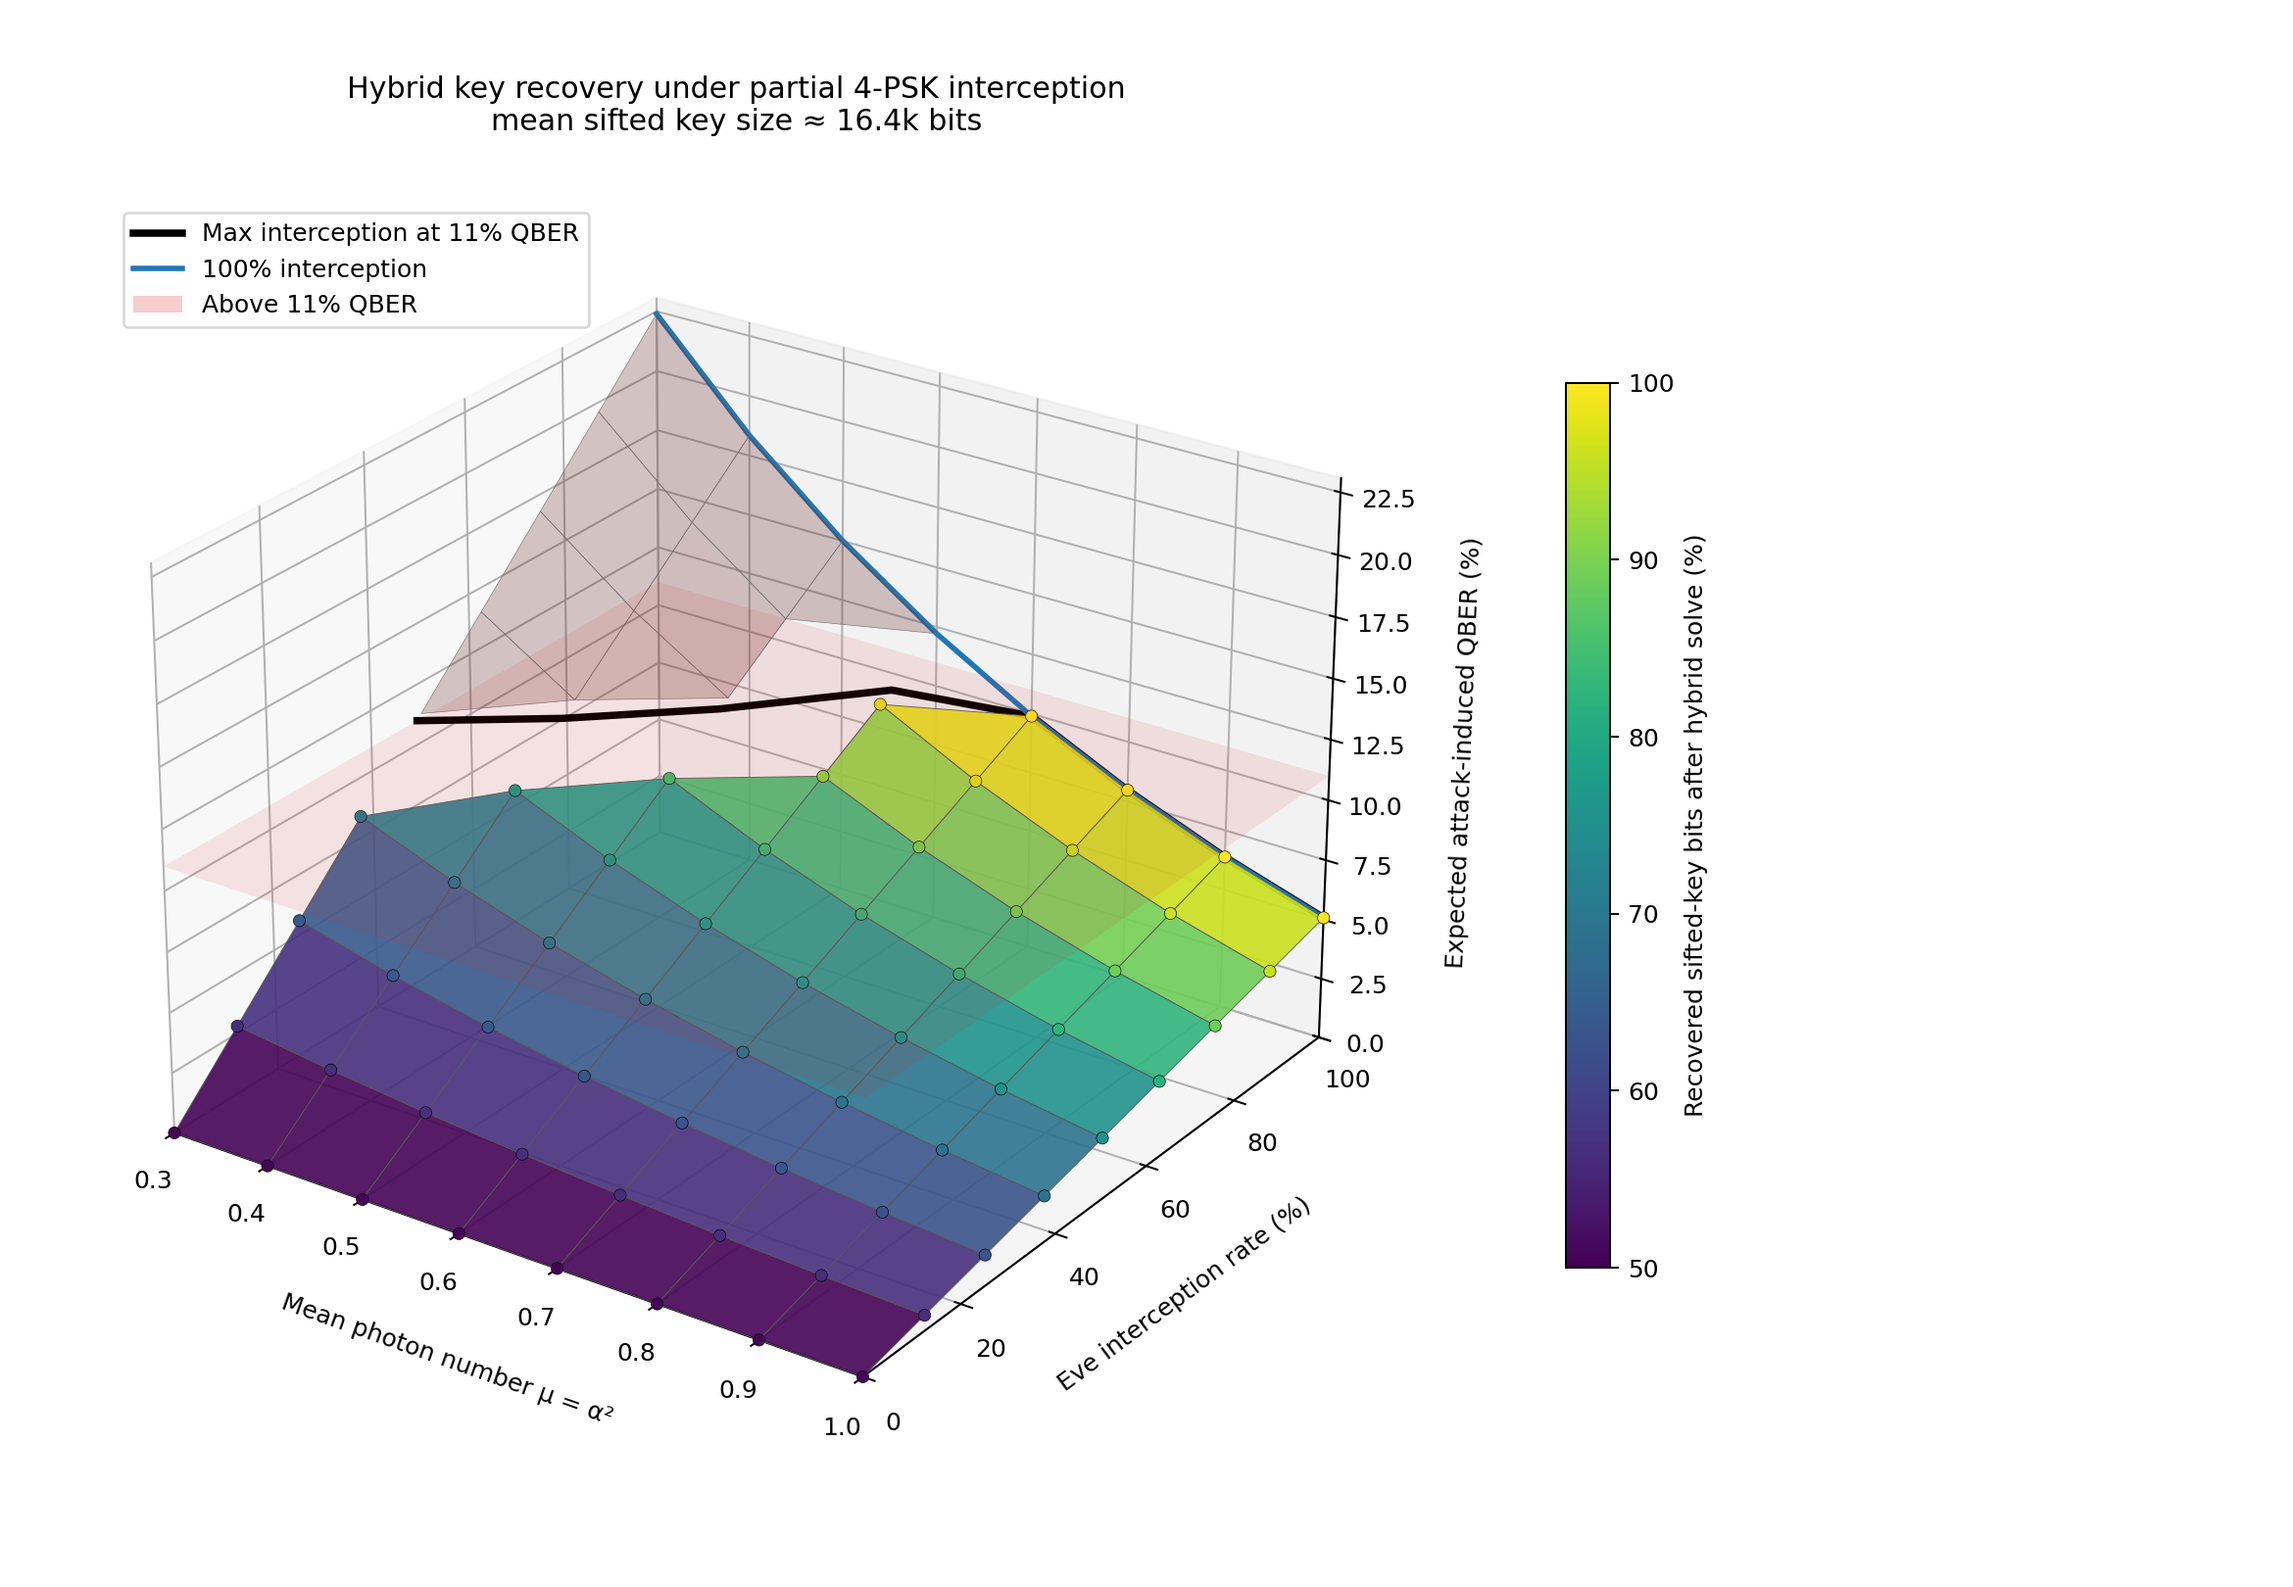
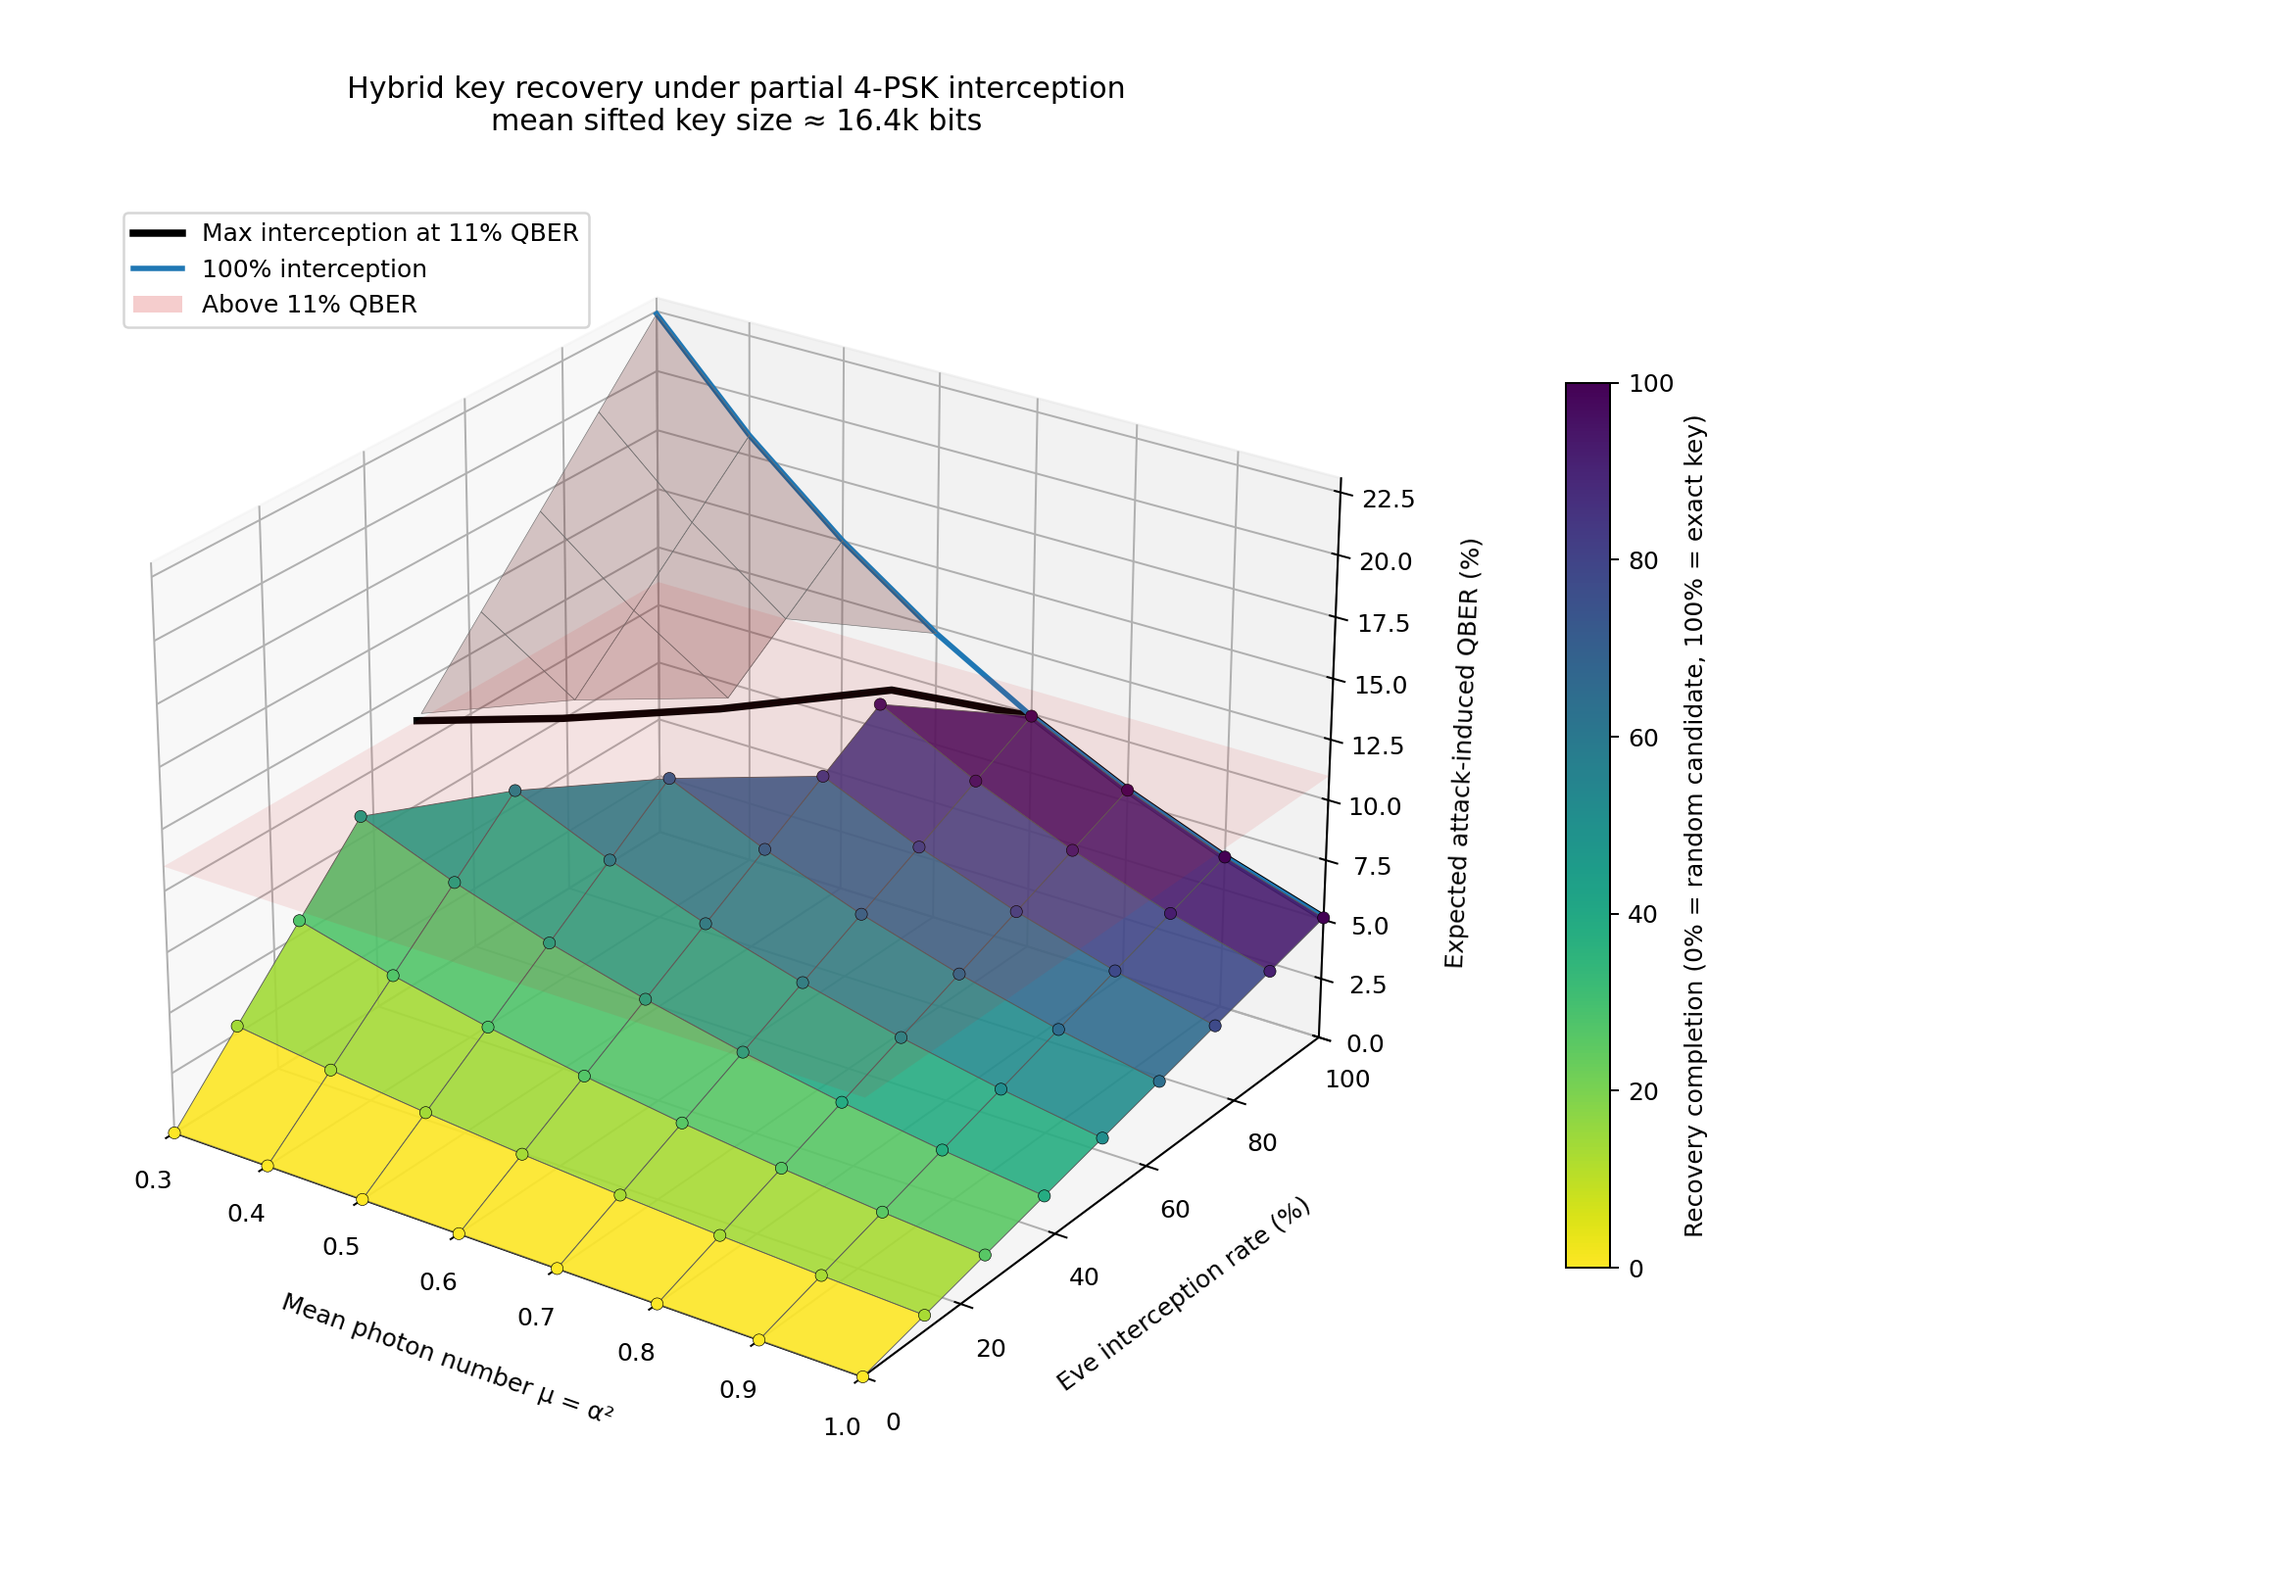
Normalize recovery colors above chance

Changed region(s): [[0.0624, 0.4938, 0.4991, 0.8642], [0.2808, 0.4321, 0.5927, 0.679], [0.6863, 0.2469, 0.7487, 0.8025]]

diff --git a/plot_3d_mean_photon.py b/plot_3d_mean_photon.py
@@ -53,6 +53,25 @@ def maximum_intercept_fraction(
     return min(1.0, qber_limit / full_qber)
 
 
+def recovery_completion(
+    recovery_accuracy: float, intercept_fraction: float
+) -> float:
+    """Normalize candidate accuracy from random guessing to exact recovery.
+
+    A candidate with 50% bit accuracy contains no demonstrated recovery beyond
+    chance and maps to 0%. An exact candidate maps to 100%. At zero
+    interception the completion is exactly zero, independent of finite-sample
+    fluctuations around 50% candidate accuracy.
+    """
+    if not 0.0 <= recovery_accuracy <= 1.0:
+        raise ValueError("recovery_accuracy must be between 0 and 1")
+    if not 0.0 <= intercept_fraction <= 1.0:
+        raise ValueError("intercept_fraction must be between 0 and 1")
+    if intercept_fraction == 0.0:
+        return 0.0
+    return min(1.0, max(0.0, 2.0 * recovery_accuracy - 1.0))
+
+
 def run_recovery_attack(
     raw_size: int,
     mean_photon_number: float,
@@ -180,7 +199,7 @@ def aggregate_recovery(rows):
     intercept_fractions = sorted(
         {float(row["intercept_fraction"]) for row in rows}
     )
-    recovery = np.empty(
+    completion = np.empty(
         (len(intercept_fractions), len(mean_photon_numbers)), dtype=float
     )
     sifted_sizes = []
@@ -194,20 +213,25 @@ def aggregate_recovery(rows):
             ]
             if not selected:
                 raise ValueError("recovery sweep is not a complete grid")
-            recovery[intercept_index, mu_index] = np.mean(
-                [row["recovery_accuracy"] for row in selected]
+            completion[intercept_index, mu_index] = np.mean(
+                [
+                    recovery_completion(
+                        row["recovery_accuracy"], row["intercept_fraction"]
+                    )
+                    for row in selected
+                ]
             )
             sifted_sizes.extend(row["sifted_size"] for row in selected)
     return (
         np.asarray(mean_photon_numbers),
         np.asarray(intercept_fractions),
-        recovery,
+        completion,
         float(np.mean(sifted_sizes)),
     )
 
 
 def plot_operating_region(rows, qber_limit: float, output_path: Path):
-    mean_photon_numbers, intercept_fractions, recovery, mean_sifted = (
+    mean_photon_numbers, intercept_fractions, completion, mean_sifted = (
         aggregate_recovery(rows)
     )
     mu_grid, intercept_grid = np.meshgrid(
@@ -220,9 +244,10 @@ def plot_operating_region(rows, qber_limit: float, output_path: Path):
     qber_percent = effective_qber * 100.0
     intercept_percent = intercept_grid * 100.0
 
-    recovery_percent = recovery * 100.0
-    recovery_norm = colors.Normalize(vmin=50.0, vmax=100.0)
-    recovery_colors = cm.viridis(recovery_norm(recovery_percent))
+    completion_percent = completion * 100.0
+    completion_norm = colors.Normalize(vmin=0.0, vmax=100.0)
+    completion_cmap = cm.viridis_r
+    completion_colors = completion_cmap(completion_norm(completion_percent))
     safe_qber = np.where(effective_qber <= qber_limit, qber_percent, np.nan)
     unsafe_qber = np.where(effective_qber > qber_limit, qber_percent, np.nan)
 
@@ -232,7 +257,7 @@ def plot_operating_region(rows, qber_limit: float, output_path: Path):
         mu_grid,
         intercept_percent,
         safe_qber,
-        facecolors=recovery_colors,
+        facecolors=completion_colors,
         edgecolor="0.35",
         linewidth=0.35,
         alpha=0.9,
@@ -243,9 +268,9 @@ def plot_operating_region(rows, qber_limit: float, output_path: Path):
         mu_grid[effective_qber <= qber_limit],
         intercept_percent[effective_qber <= qber_limit],
         qber_percent[effective_qber <= qber_limit],
-        c=recovery_percent[effective_qber <= qber_limit],
-        cmap=cm.viridis,
-        norm=recovery_norm,
+        c=completion_percent[effective_qber <= qber_limit],
+        cmap=completion_cmap,
+        norm=completion_norm,
         s=24,
         edgecolors="black",
         linewidths=0.25,
@@ -308,12 +333,14 @@ def plot_operating_region(rows, qber_limit: float, output_path: Path):
     ax.view_init(elev=26, azim=-55)
 
     colorbar = fig.colorbar(
-        cm.ScalarMappable(norm=recovery_norm, cmap=cm.viridis),
+        cm.ScalarMappable(norm=completion_norm, cmap=completion_cmap),
         ax=ax,
         shrink=0.68,
         pad=0.1,
     )
-    colorbar.set_label("Recovered sifted-key bits after hybrid solve (%)")
+    colorbar.set_label(
+        "Recovery completion (0% = random candidate, 100% = exact key)"
+    )
 
     legend_handles = [
         Line2D(

diff --git a/test_mean_photon_attack.py b/test_mean_photon_attack.py
@@ -6,6 +6,7 @@ from hybrid_constraint_solver import HybridConstraintSolver
 from plot_3d_mean_photon import (
     expected_attack_rates,
     maximum_intercept_fraction,
+    recovery_completion,
     run_recovery_attack,
 )
 from qpsk_srm_attack import (
@@ -105,6 +106,13 @@ class PartialInterceptOperatingRegionTests(unittest.TestCase):
         self.assertTrue(row["optimal"])
         self.assertGreaterEqual(row["recovery_accuracy"], 0.0)
         self.assertLessEqual(row["recovery_accuracy"], 1.0)
+
+    def test_completion_removes_random_guessing_baseline(self):
+        self.assertEqual(recovery_completion(0.5, 0.0), 0.0)
+        self.assertEqual(recovery_completion(0.9, 0.0), 0.0)
+        self.assertEqual(recovery_completion(0.5, 0.5), 0.0)
+        self.assertEqual(recovery_completion(0.75, 0.5), 0.5)
+        self.assertEqual(recovery_completion(1.0, 0.5), 1.0)
 
 
 if __name__ == "__main__":
